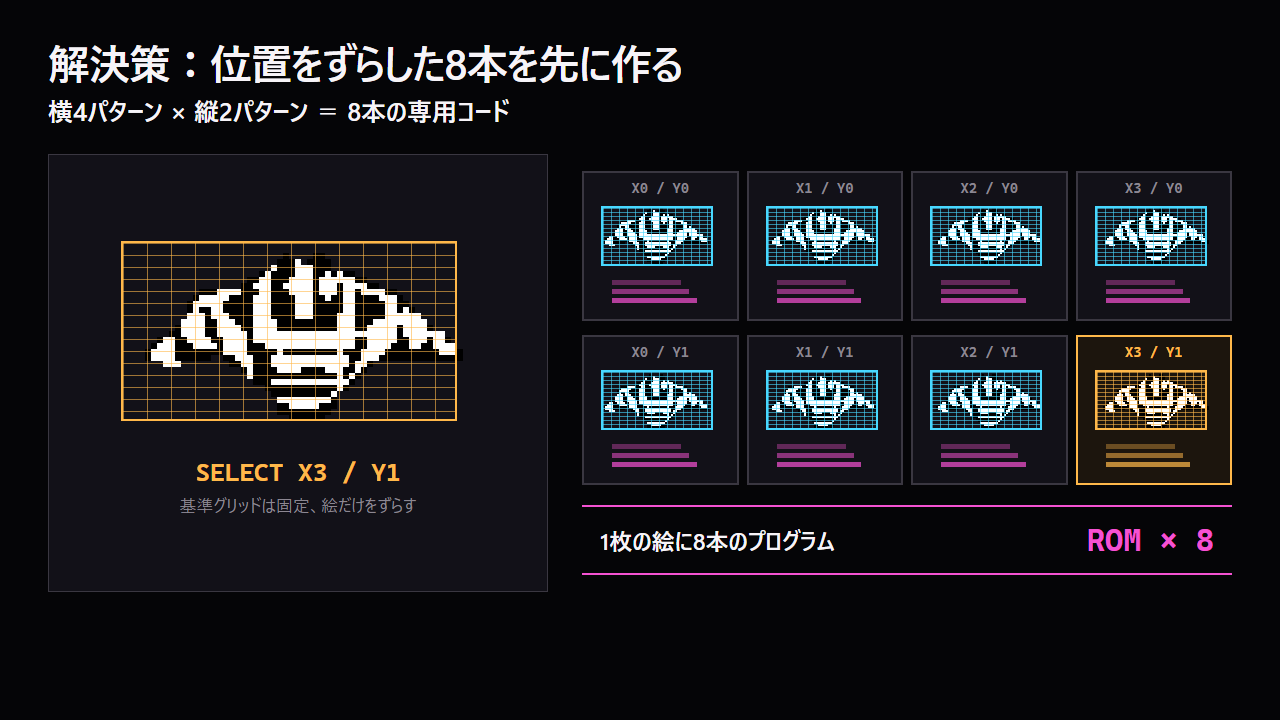
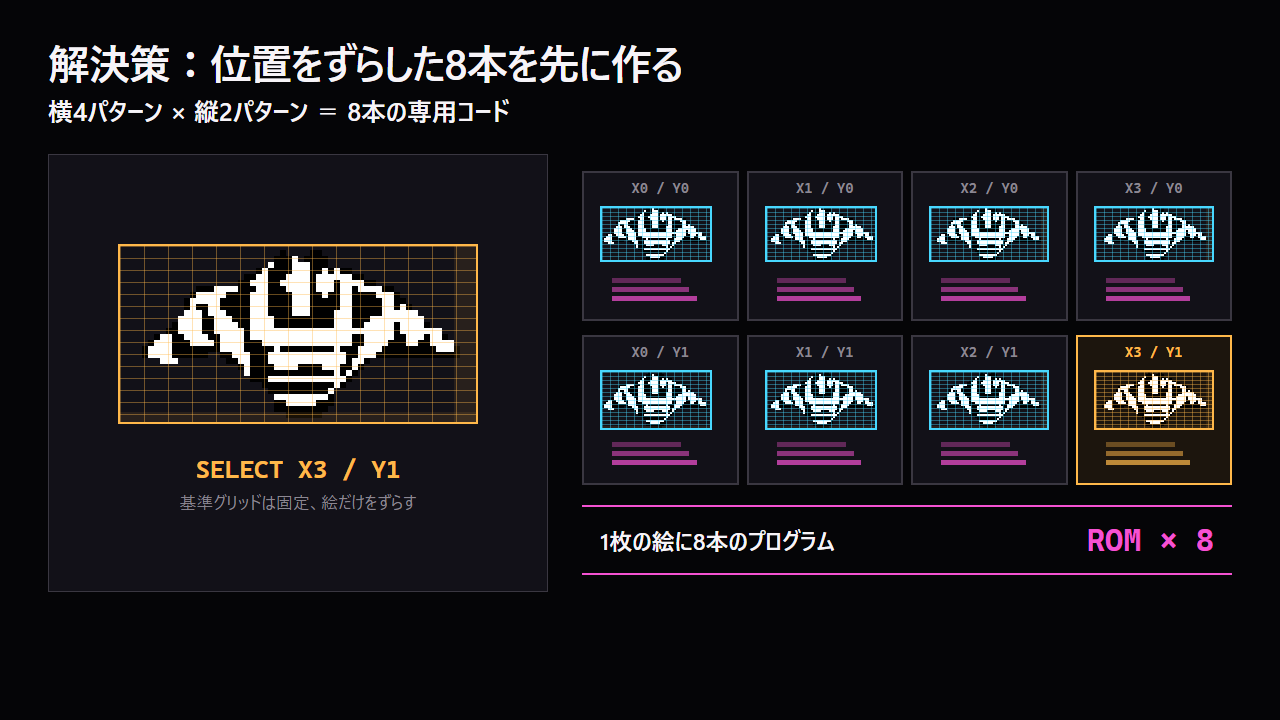
codex: コンパイルドスプライトの容量と位置制約を具体化

diff --git a/GPT/video/explainer_prototype/src/ExplainerPrototype.tsx b/GPT/video/explainer_prototype/src/ExplainerPrototype.tsx
@@ -885,9 +885,9 @@ const RaceScene: React.FC = () => {
 };
 
 const costSprites = [
-  {name: 'EM0', src: 'enemy_em0_00.png', width: 110, height: 60},
-  {name: 'EM1', src: 'enemy_em1_00.png', width: 88, height: 88},
-  {name: '敵の弾', src: 'enemy_bullet_00.png', width: 76, height: 76},
+  {name: '敵1', src: 'enemy_em0_00.png', width: 110, height: 60},
+  {name: '敵2', src: 'enemy_2_open.png', width: 82, height: 88},
+  {name: 'ボスの弾', src: 'boss_bullet_00.png', width: 76, height: 72},
 ];
 
 const SpriteCard: React.FC<{sprite: (typeof costSprites)[number]}> = ({sprite}) => (
@@ -914,13 +914,18 @@ const SpriteCard: React.FC<{sprite: (typeof costSprites)[number]}> = ({sprite}) 
   </div>
 );
 
-const CodeStripes: React.FC<{color: string; lines?: number}> = ({color, lines = 8}) => (
-  <div style={{display: 'flex', flexDirection: 'column', gap: 4}}>
+const CodeStripes: React.FC<{color: string; lines?: number; height?: number; gap?: number}> = ({
+  color,
+  lines = 8,
+  height = 5,
+  gap = 4,
+}) => (
+  <div style={{display: 'flex', flexDirection: 'column', gap}}>
     {Array.from({length: lines}).map((_, i) => (
       <div
         key={i}
         style={{
-          height: 5,
+          height,
           width: `${72 + (i % 4) * 8}%`,
           background: color,
           opacity: 0.35 + (i % 3) * 0.18,
@@ -930,9 +935,56 @@ const CodeStripes: React.FC<{color: string; lines?: number}> = ({color, lines = 
   </div>
 );
 
+const MemoryGauge: React.FC<{count: number; compiled?: boolean}> = ({count, compiled = false}) => {
+  const color = compiled ? C.magenta : C.cyan;
+  const programWidth = compiled ? 164 : 78;
+  const itemWidth = compiled ? programWidth : 52;
+  return (
+    <div style={{display: 'flex', gap: 6, height: 23, alignItems: 'stretch'}}>
+      {!compiled ? (
+        <div
+          style={{
+            width: programWidth,
+            display: 'grid',
+            placeItems: 'center',
+            background: color,
+            color: C.bg,
+            fontFamily: FONT,
+            fontSize: 10,
+            fontWeight: 900,
+          }}
+        >
+          プログラム
+        </div>
+      ) : null}
+      {Array.from({length: 3}).map((_, i) => {
+        const visible = i < count;
+        return (
+          <div
+            key={i}
+            style={{
+              width: itemWidth,
+              display: 'grid',
+              placeItems: 'center',
+              background: visible ? color : '#292630',
+              color: visible ? (compiled ? C.white : C.bg) : 'transparent',
+              fontFamily: FONT,
+              fontSize: 10,
+              fontWeight: 900,
+              opacity: visible ? 1 : 0.32,
+            }}
+          >
+            {compiled ? 'プログラム' : 'データ'}
+          </div>
+        );
+      })}
+    </div>
+  );
+};
+
 const CapacityCostScene: React.FC = () => {
   const frame = useCurrentFrame();
-  const count = clamp(Math.floor(interpolate(frame, [30, 210], [1, 4])), 1, 3);
+  const count = clamp(Math.floor(interpolate(frame, [35, 245], [0, 4])), 0, 3);
   return (
     <AbsoluteFill style={{opacity: fade(frame, 360), backgroundColor: C.bg, padding: '38px 48px 0', boxSizing: 'border-box'}}>
       <Title size={42}>コンパイルドスプライトの欠点</Title>
@@ -951,13 +1003,13 @@ const CapacityCostScene: React.FC = () => {
           <div style={{display: 'flex', alignItems: 'center', gap: 18, marginTop: 23}}>
             <div style={{fontFamily: FONT, color: C.white, fontSize: 22, fontWeight: 900}}>絵データだけ追加</div>
             <div style={{fontFamily: MONO, color: C.cyan, fontSize: 24, fontWeight: 900}}>→</div>
-            <div style={{flex: 1, padding: '12px 14px', border: '1px solid #4a4651', background: '#0a0a0d'}}>
-              <div style={{fontFamily: FONT, color: C.dim, fontSize: 12, fontWeight: 800, marginBottom: 7}}>1つの小さな汎用プログラム</div>
-              <CodeStripes color={C.cyan} lines={5} />
+            <div style={{flex: 1, padding: '9px 14px', border: '1px solid #4a4651', background: '#0a0a0d'}}>
+              <div style={{fontFamily: FONT, color: C.dim, fontSize: 12, fontWeight: 800, marginBottom: 6}}>1つの小さな汎用プログラム</div>
+              <CodeStripes color={C.cyan} lines={4} height={4} gap={3} />
             </div>
           </div>
-          <div style={{marginTop: 23, height: 18, background: '#292630'}}>
-            <div style={{height: '100%', width: `${24 + count * 9}%`, background: C.cyan}} />
+          <div style={{marginTop: 23}}>
+            <MemoryGauge count={count} />
           </div>
           <div style={{fontFamily: FONT, color: C.dim, fontSize: 17, marginTop: 7}}>プログラムは1つのまま</div>
         </div>
@@ -975,8 +1027,8 @@ const CapacityCostScene: React.FC = () => {
             ))}
           </div>
           <div style={{fontFamily: FONT, color: C.white, fontSize: 22, fontWeight: 900, marginTop: 14}}>絵ごとにプログラムを追加</div>
-          <div style={{marginTop: 15, height: 18, background: '#292630'}}>
-            <div style={{height: '100%', width: `${count * 31}%`, background: C.magenta}} />
+          <div style={{marginTop: 15}}>
+            <MemoryGauge count={count} compiled />
           </div>
           <div style={{fontFamily: FONT, color: C.magenta, fontSize: 17, fontWeight: 800, marginTop: 7}}>速いが、ROMを大量に使う</div>
         </div>
@@ -987,11 +1039,23 @@ const CapacityCostScene: React.FC = () => {
 
 const PositionLimitScene: React.FC = () => {
   const frame = useCurrentFrame();
-  const wanted = Math.floor(frame / 42) % 5;
-  const actual = Math.floor(wanted / 4) * 4;
+  const positions = [
+    {x: 0, y: 0},
+    {x: 1, y: 0},
+    {x: 2, y: 0},
+    {x: 3, y: 0},
+    {x: 0, y: 1},
+  ];
+  const wanted = positions[Math.floor(frame / 50) % positions.length];
+  const actual = {x: Math.floor(wanted.x / 4) * 4, y: Math.floor(wanted.y / 2) * 2};
   const scale = 7;
-  const gridWidth = 56 * scale;
-  const gridHeight = 30 * scale;
+  const baseWidth = 56 * scale;
+  const baseHeight = 28 * scale;
+  const extendRight = wanted.x >= 2;
+  const extendBottom = wanted.y >= 1;
+  const gridWidth = baseWidth + (extendRight ? 4 * scale : 0);
+  const gridHeight = baseHeight + (extendBottom ? 2 * scale : 0);
+  const differs = wanted.x !== actual.x || wanted.y !== actual.y;
   return (
     <AbsoluteFill style={{opacity: fade(frame, 300), backgroundColor: C.bg, padding: '38px 52px 0', boxSizing: 'border-box'}}>
       <Title size={42}>コンパイルドスプライトの欠点</Title>
@@ -1001,23 +1065,29 @@ const PositionLimitScene: React.FC = () => {
 
       <div style={{display: 'flex', gap: 55, alignItems: 'center', marginTop: 31}}>
         <div style={{width: 650, height: 430, display: 'grid', placeItems: 'center', background: C.panel, border: '1px solid #3a3741'}}>
-          <div style={{position: 'relative', width: gridWidth + 48, height: gridHeight + 48}}>
+          <div style={{position: 'relative', width: baseWidth + 4 * scale + 48, height: baseHeight + 2 * scale + 48}}>
             <div style={{position: 'absolute', left: 24, top: 24, width: gridWidth, height: gridHeight, overflow: 'visible'}}>
               <Img
-                src={staticFile('enemy_em0_00.png')}
+                src={staticFile('enemy_em0_explain.png')}
                 style={{
-                  position: 'absolute', left: actual * scale, top: 0, width: 55 * scale, height: 30 * scale,
+                  position: 'absolute', left: actual.x * scale, top: actual.y * scale, width: 55 * scale, height: 28 * scale,
                   maxWidth: 'none', imageRendering: 'pixelated', zIndex: 1,
                 }}
               />
               <Img
-                src={staticFile('enemy_em0_00.png')}
+                src={staticFile('enemy_em0_explain.png')}
                 style={{
-                  position: 'absolute', left: wanted * scale, top: 0, width: 55 * scale, height: 30 * scale,
-                  maxWidth: 'none', imageRendering: 'pixelated', zIndex: 2, opacity: wanted === actual ? 0 : 0.42,
+                  position: 'absolute', left: wanted.x * scale, top: wanted.y * scale, width: 55 * scale, height: 28 * scale,
+                  maxWidth: 'none', imageRendering: 'pixelated', zIndex: 2, opacity: differs ? 0.42 : 0,
                   filter: 'sepia(1) saturate(8) hue-rotate(275deg) brightness(1.4)',
                 }}
               />
+              {extendRight ? (
+                <div style={{position: 'absolute', left: baseWidth, top: 0, width: 4 * scale, height: gridHeight, background: `${C.orange}18`, zIndex: 2}} />
+              ) : null}
+              {extendBottom ? (
+                <div style={{position: 'absolute', left: 0, top: baseHeight, width: gridWidth, height: 2 * scale, background: `${C.orange}18`, zIndex: 2}} />
+              ) : null}
               <div
                 style={{
                   position: 'absolute', inset: 0, zIndex: 3, border: `2px solid ${C.cyan}`,
@@ -1033,11 +1103,15 @@ const PositionLimitScene: React.FC = () => {
           <div style={{fontFamily: MONO, color: C.cyan, fontSize: 21, fontWeight: 900}}>1 BYTE = 4 × 2 DOTS</div>
           <div style={{marginTop: 27, padding: '20px 22px', background: C.panel, borderLeft: `5px solid ${C.magenta}`}}>
             <div style={{fontFamily: FONT, color: C.dim, fontSize: 18}}>動かしたい位置</div>
-            <div style={{fontFamily: MONO, color: C.magenta, fontSize: 38, fontWeight: 900, marginTop: 5}}>＋{wanted} DOT</div>
+            <div style={{fontFamily: MONO, color: C.magenta, fontSize: 32, fontWeight: 900, marginTop: 5}}>
+              X＋{wanted.x} / Y＋{wanted.y}
+            </div>
           </div>
           <div style={{marginTop: 15, padding: '20px 22px', background: C.panel, borderLeft: `5px solid ${C.cyan}`}}>
             <div style={{fontFamily: FONT, color: C.dim, fontSize: 18}}>実際に描ける位置</div>
-            <div style={{fontFamily: MONO, color: C.cyan, fontSize: 38, fontWeight: 900, marginTop: 5}}>＋{actual} DOT</div>
+            <div style={{fontFamily: MONO, color: C.cyan, fontSize: 32, fontWeight: 900, marginTop: 5}}>
+              X＋{actual.x} / Y＋{actual.y}
+            </div>
           </div>
           <div style={{fontFamily: FONT, color: C.white, fontSize: 24, fontWeight: 900, lineHeight: 1.45, marginTop: 25}}>
             1ドットずつ滑らかに<br />動かすことができない
@@ -1054,24 +1128,34 @@ const AlignedEnemyGrid: React.FC<{scale: number; xShift: number; yShift: number;
   yShift,
   active = false,
 }) => {
-  const gridWidth = 56 * scale;
-  const gridHeight = 30 * scale;
+  const baseWidth = 56 * scale;
+  const baseHeight = 28 * scale;
+  const extendRight = xShift >= 2;
+  const extendBottom = yShift >= 1;
+  const gridWidth = baseWidth + (extendRight ? 4 * scale : 0);
+  const gridHeight = baseHeight + (extendBottom ? 2 * scale : 0);
   const padding = 10;
   return (
-    <div style={{position: 'relative', width: gridWidth + padding * 2 + 3 * scale, height: gridHeight + padding * 2 + scale}}>
+    <div style={{position: 'relative', width: baseWidth + 4 * scale + padding * 2, height: baseHeight + 2 * scale + padding * 2}}>
       <div style={{position: 'absolute', left: padding, top: padding, width: gridWidth, height: gridHeight, overflow: 'visible'}}>
         <Img
-          src={staticFile('enemy_em0_00.png')}
+          src={staticFile('enemy_em0_explain.png')}
           style={{
             position: 'absolute', left: xShift * scale, top: yShift * scale,
-            width: 55 * scale, height: 30 * scale, maxWidth: 'none', imageRendering: 'pixelated', zIndex: 1,
+            width: 55 * scale, height: 28 * scale, maxWidth: 'none', imageRendering: 'pixelated', zIndex: 1,
           }}
         />
+        {extendRight ? (
+          <div style={{position: 'absolute', left: baseWidth, top: 0, width: 4 * scale, height: gridHeight, background: `${C.orange}18`, zIndex: 2}} />
+        ) : null}
+        {extendBottom ? (
+          <div style={{position: 'absolute', left: 0, top: baseHeight, width: gridWidth, height: 2 * scale, background: `${C.orange}18`, zIndex: 2}} />
+        ) : null}
         <div
           style={{
-            position: 'absolute', inset: 0, zIndex: 2,
+            position: 'absolute', inset: 0, zIndex: 3,
             border: `2px solid ${active ? C.orange : C.cyan}`,
-            backgroundImage: `linear-gradient(to right, ${active ? C.orange : C.cyan}99 1px, transparent 1px), linear-gradient(to bottom, ${active ? C.orange : C.cyan}99 1px, transparent 1px)`,
+            backgroundImage: `linear-gradient(to right, ${active ? C.orange : C.cyan}66 1px, transparent 1px), linear-gradient(to bottom, ${active ? C.orange : C.cyan}66 1px, transparent 1px)`,
             backgroundSize: `${4 * scale}px ${2 * scale}px`, pointerEvents: 'none',
           }}
         />
